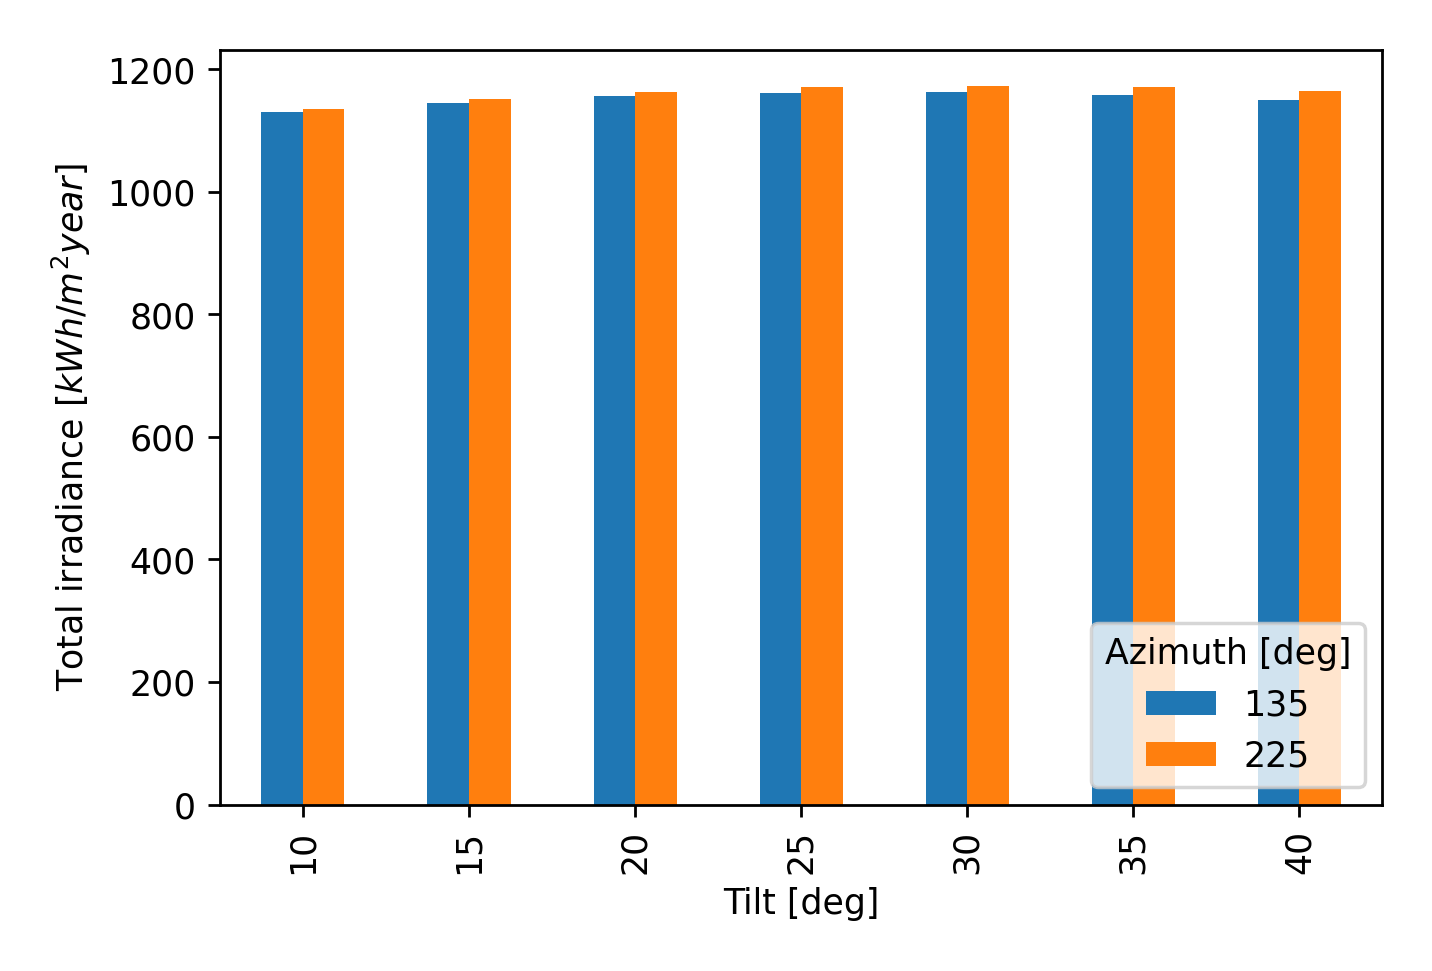
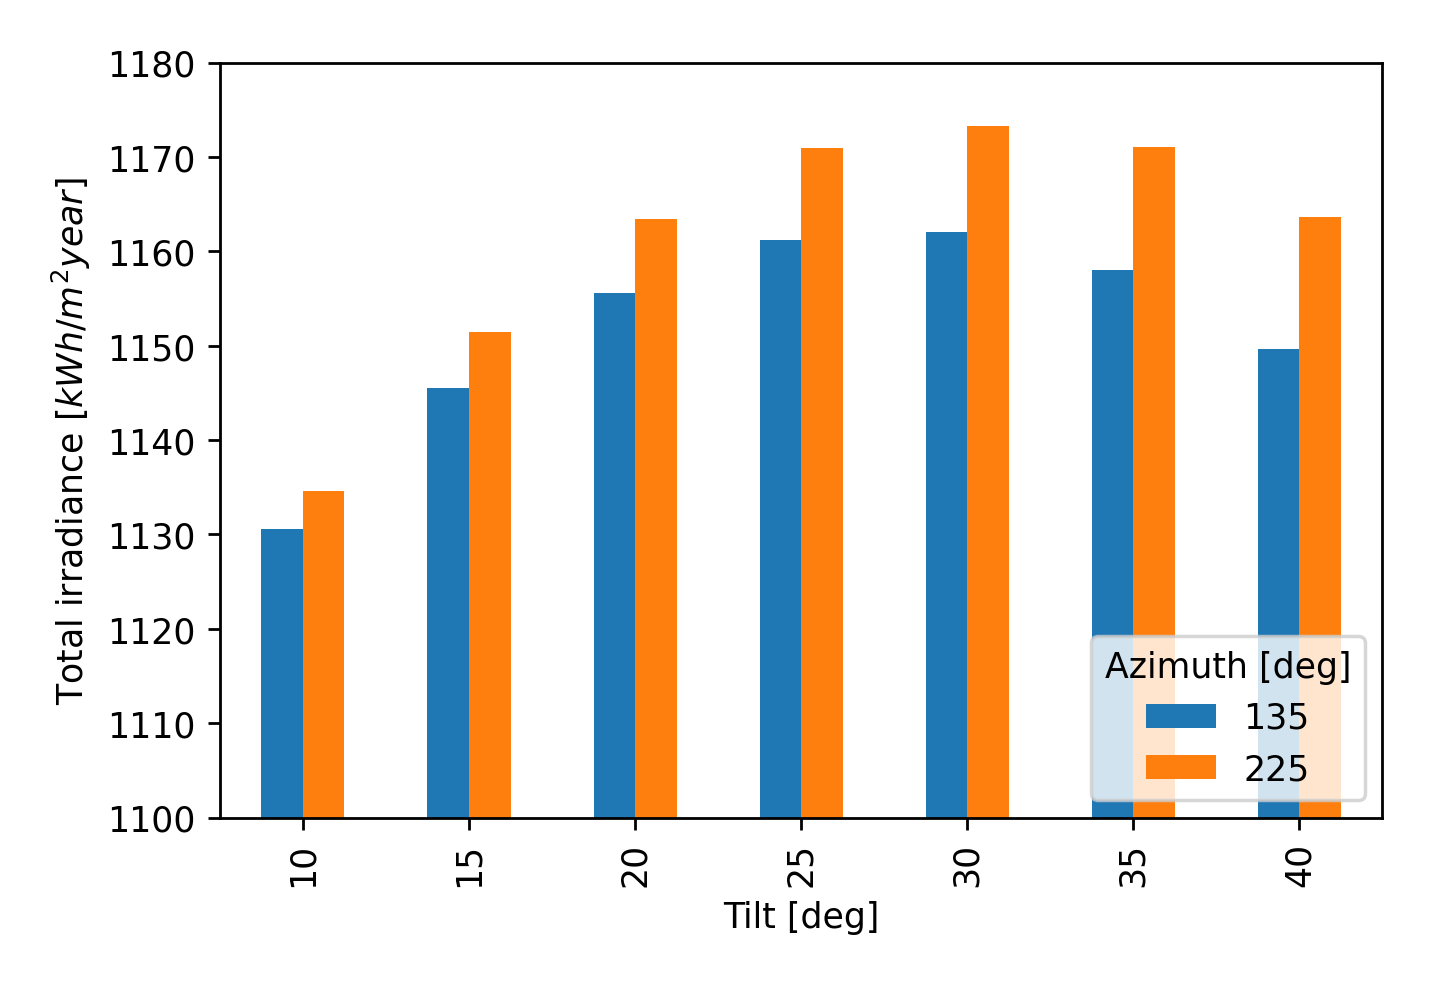
Change the range of the y-axis of the bar charts for question 2

diff --git a/src/question2.py b/src/question2.py
@@ -65,15 +65,19 @@ def find_best_orientation(irradiance, *, azimuths, tilts, plotname):
     for tilt in tilts:
         all_orientations.loc[tilt] = list(map(lambda azimuth: calculate_poa(tilt, azimuth, irradiance)['total'], azimuths))
 
-    # Create and save the bar chart
-    fig = all_orientations.plot(kind='bar', xlabel='Tilt [deg]', ylabel='Total irradiance [$kWh/m^2 year$]')
-    fig.legend(title='Azimuth [deg]', loc=4)
-    utils.plots.savefig(f'../output/question2/{plotname}.png')
-    plt.show()
-
     # Find and return the optimal azimuth and tilt in the DataFrame
     optimal_azimuth = all_orientations.max().idxmax()
     optimal_tilt = all_orientations[optimal_azimuth].idxmax()
+
+    # Create and save the bar chart
+    fig = all_orientations.plot(kind='bar', xlabel='Tilt [deg]', ylabel='Total irradiance [$kWh/m^2 year$]')
+    fig.legend(title='Azimuth [deg]', loc=4)
+
+    max_value = all_orientations.loc[optimal_tilt, optimal_azimuth]
+    fig.set_ylim([1100, math.ceil(max_value / 20) * 20])
+    utils.plots.savefig(f'../output/question2/{plotname}.png')
+    plt.show()
+
     return {'tilt': int(optimal_tilt), 'azimuth': int(optimal_azimuth)}
 
 
